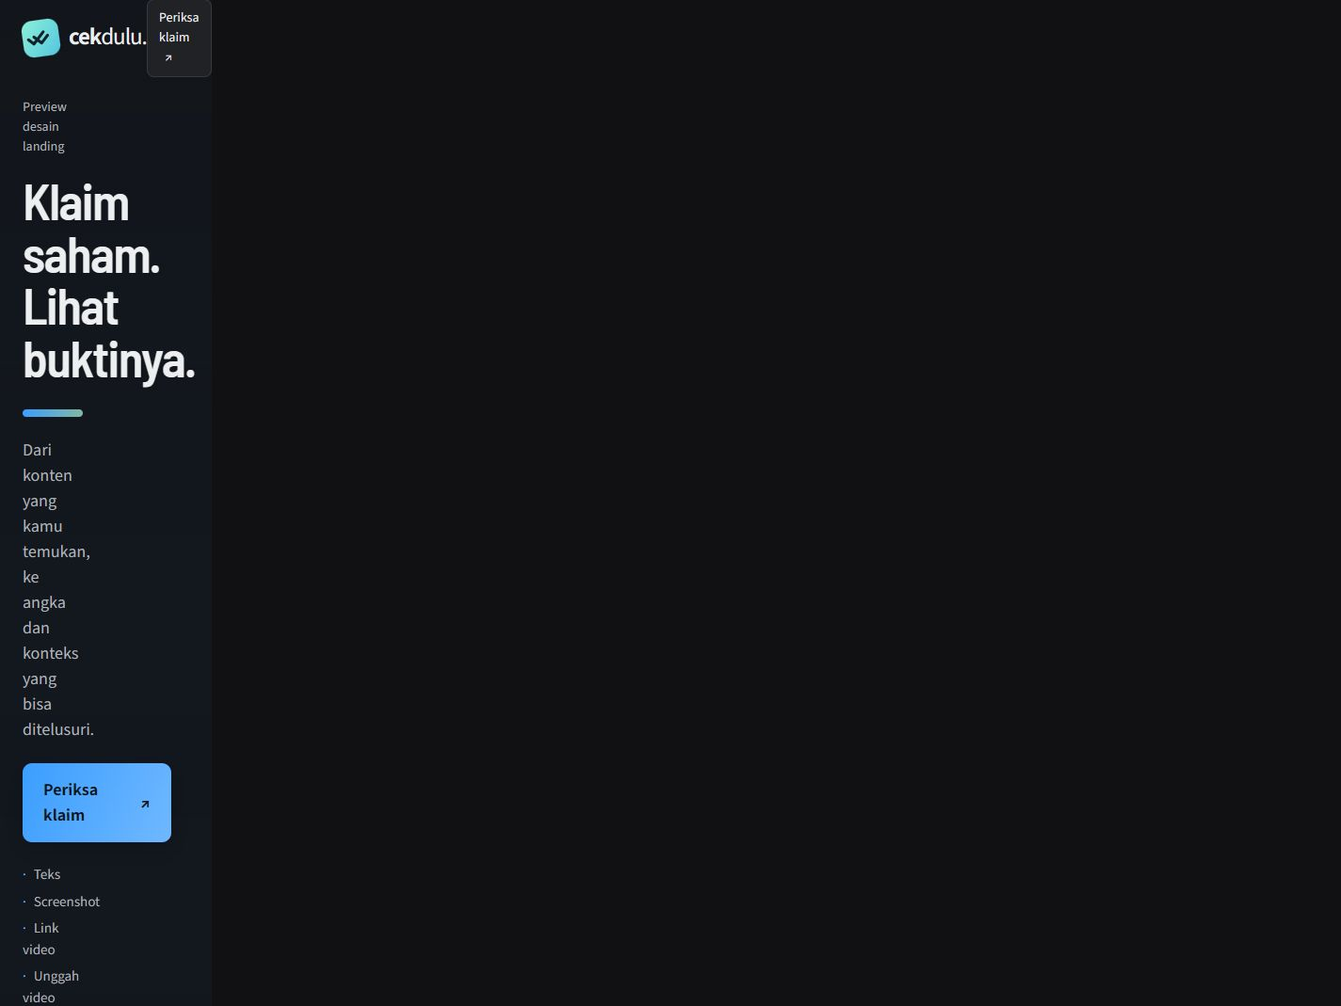
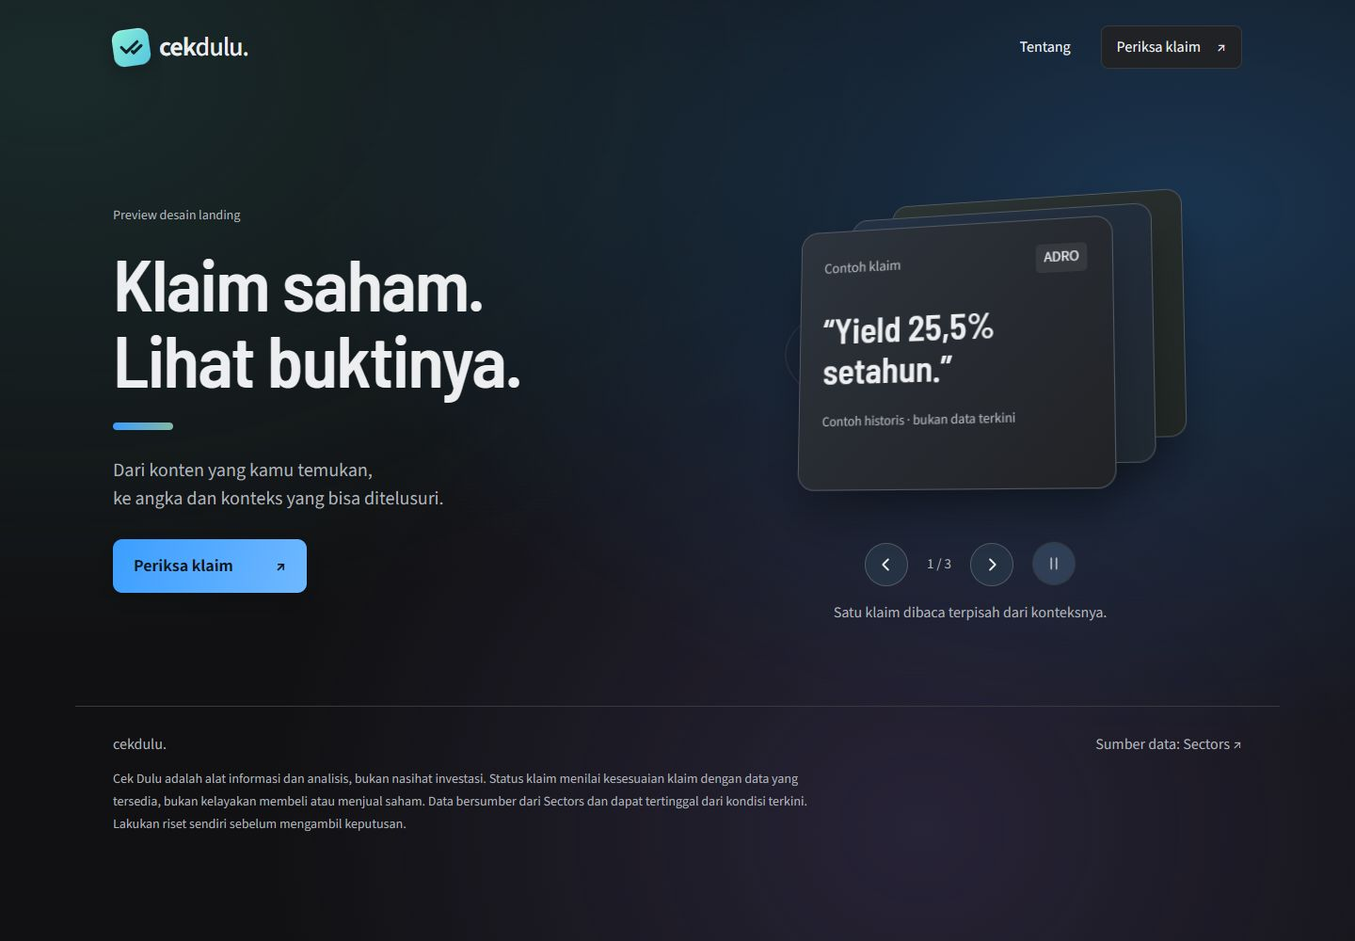
feat: refine the landing preview with automatic motion and arrow navigation

diff --git a/docs/design-mockups/landing.css b/docs/design-mockups/landing.css
@@ -1,5 +1,6 @@
 @font-face{font-family:Source;src:url('fonts/source-sans-3.ttf')}@font-face{font-family:Barlow;src:url('fonts/barlow-semi-condensed-600.ttf');font-weight:600}
-*{box-sizing:border-box}body{margin:0;background:#111113;color:#edeef0;font:18px/1.5 Source,sans-serif;background-image:radial-gradient(ellipse at 80% 25%,#19304b70,transparent 50%)}a{color:inherit;text-decoration:none}button{font:inherit;cursor:pointer}a:focus-visible,button:focus-visible{outline:3px solid #70b8ff;outline-offset:5px}.skip{position:absolute;top:-100px}.skip:focus{top:8px;z-index:9;background:#212225;padding:12px}header,main,footer{max-width:1280px;margin:auto;padding-inline:40px}header{height:100px;display:flex;align-items:center;justify-content:space-between}.brand{display:flex;align-items:center;font-size:28px;font-weight:650;letter-spacing:-1px}.brand>span:last-child{font-weight:400}.mark{display:grid;place-items:center;width:39px;height:39px;margin-right:10px;border-radius:11px;transform:rotate(-8deg);color:#10232a;background:linear-gradient(130deg,#8cf0d9,#54c5df);font-size:22px;letter-spacing:-8px;padding-right:7px}nav{display:flex;align-items:center;gap:32px;font-size:16px}.nav-check{padding:10px 16px;border:1px solid #363a3f;border-radius:8px;background:#212225}.nav-check span{margin-left:14px}.hero{min-height:650px;display:grid;grid-template-columns:1fr 1fr;align-items:center;gap:44px;padding-block:55px 70px}.preview-label{color:#b0b4ba;font-size:14px;margin-bottom:20px}h1{font:600 clamp(52px,5.4vw,78px)/1.03 Barlow,sans-serif;letter-spacing:-1.5px;margin:0}h1:after{content:'';display:block;width:64px;height:8px;margin-top:28px;border-radius:8px;background:linear-gradient(90deg,#3b9eff,#82b8a5)}.subtitle{color:#b0b4ba;margin:28px 0;font-size:20px;line-height:1.5}.cta{display:inline-flex;gap:45px;align-items:center;padding:15px 22px;border-radius:10px;background:linear-gradient(115deg,#3b9eff,#70b8ff);color:#0d1520;font-weight:650;box-shadow:0 8px 30px #0003;transition:transform .2s}.cta:hover{transform:translateY(-3px)}.formats{display:flex;gap:8px 18px;flex-wrap:wrap;color:#b0b4ba;font-size:15px;margin-top:24px}.formats span:before{content:'·';margin-right:8px;color:#70b8ff}.experience{text-align:center;min-width:0}.scene{height:405px;position:relative;perspective:1400px;display:grid;place-items:center;touch-action:pan-y}.orbit{position:absolute;width:390px;height:390px;border-radius:50%;border:1px solid #363a3f;transform:rotateX(66deg) rotateZ(-25deg);box-shadow:0 0 0 55px #19304b12}.deck{position:relative;width:330px;height:270px;transform-style:preserve-3d;transform:rotateX(calc(8deg + var(--ry,0deg))) rotateY(calc(-15deg + var(--rx,0deg)));animation:float 7s ease-in-out infinite;transition:transform .25s}.sheet{position:absolute;inset:0;text-align:left;border:1px solid #535a64;border-radius:18px;background:linear-gradient(135deg,#2d343d,#212225);box-shadow:0 28px 40px #0004;padding:25px;backface-visibility:hidden;transition:transform .7s cubic-bezier(.2,.7,.2,1),opacity .5s;transform-style:preserve-3d}.front{transform:translate3d(0,20px,70px)}.middle{transform:translate3d(30px,-8px,0);background:linear-gradient(135deg,#253347,#202831)}.rear{transform:translate3d(55px,-38px,-65px);background:linear-gradient(135deg,#2c3534,#212725)}.sheet-label{font-size:15px;color:#b0b4ba}.sheet-heading{display:flex;justify-content:space-between;align-items:center}.ticker{font-size:15px;color:#edeef0;background:#363a3f;padding:3px 8px;border-radius:5px}.sheet blockquote{font:600 37px/1.15 Barlow;margin:28px 0 22px}.sheet-foot{font-size:14px;color:#b0b4ba;margin:0}.sheet strong{display:block;font:600 31px/1.2 Barlow;margin-top:30px}.sheet strong small{font:16px Source;color:#b0b4ba}.sheet>p:not(.sheet-foot){font-size:16px;color:#b0b4ba}.bars{display:grid;gap:8px;margin-top:20px}.bars i{height:11px;background:#89959f;width:100%;border-radius:4px}.bars i:last-child{width:22%;background:#698db2}.stamp{display:inline-block;border-radius:6px;background:#31413c;color:#b4d3c7;padding:5px 12px;font-size:14px}.verdict{background:#3a3024;color:#e5ba83;padding:6px 10px;border-radius:6px;font-size:15px;margin-bottom:14px}.scene[data-stage=data] .front{transform:translate3d(-85px,80px,-85px);opacity:.35}.scene[data-stage=data] .middle{transform:translate3d(0,20px,100px)}.scene[data-stage=context] .front{transform:translate3d(-85px,80px,-85px);opacity:.3}.scene[data-stage=context] .middle{transform:translate3d(60px,25px,-45px);opacity:.4}.scene[data-stage=context] .rear{transform:translate3d(0,20px,120px)}.steps{display:flex;gap:8px;justify-content:center;margin-top:8px}.steps button{background:#212225;border:1px solid #363a3f;border-radius:8px;padding:9px 22px;color:#b0b4ba;min-height:44px}.steps button[aria-pressed=true]{background:#19304b;color:#edeef0;border-color:#698db2}.step-caption{font-size:16px;color:#b0b4ba;min-height:24px;margin:16px 0 8px}.motion-toggle{color:#b0b4ba;background:none;border:0;padding:10px;font-size:14px;min-height:44px}.entry{display:flex;justify-content:space-between;align-items:center;gap:20px;border-block:1px solid #363a3f;padding:32px 0;margin-bottom:36px}.entry h2{font:600 26px Barlow;margin:0}.entry a{color:#70b8ff;font-size:18px}.entry a:hover{text-decoration:underline}footer{padding-bottom:36px}.footer-row{display:flex;justify-content:space-between;gap:20px;font-size:16px;color:#b0b4ba}footer p{font-size:14px;color:#b0b4ba;max-width:108ch;line-height:1.7}.paused .deck{animation:none}.paused .sheet{transition:none}@keyframes float{0%,100%{translate:0 0}50%{translate:0 -12px}}
-@media(max-width:900px){header,main,footer{padding-inline:24px}.hero{gap:12px}h1{font-size:56px}.deck{width:280px;height:260px}.sheet{padding:20px}.orbit{width:300px;height:300px}.scene{height:360px}.steps button{padding-inline:16px}}
-@media(max-width:650px){header{height:80px}.brand{font-size:25px}nav{gap:16px}nav>a:first-child{display:none}.nav-check{font-size:14px;padding:9px 12px}.nav-check span{margin-left:6px}.hero{display:flex;flex-direction:column;align-items:stretch;padding-top:24px;gap:28px}.preview-label{margin:0 0 18px}h1{font-size:54px}.subtitle{font-size:18px;margin:22px 0}.formats{gap:6px 14px}.scene{height:320px;overflow:hidden;margin-inline:-24px}.deck{width:265px;height:240px}.sheet{padding:20px}.sheet blockquote{font-size:33px}.sheet strong{font-size:27px;margin-top:24px}.orbit{width:300px;height:300px}.step-caption{font-size:15px}.entry{align-items:flex-start;flex-direction:column;padding-block:26px}.entry h2{font-size:24px}.footer-row{flex-wrap:wrap}}
+*{box-sizing:border-box}body{margin:0;background:#111113;color:#edeef0;font:18px/1.5 Source,sans-serif;background-image:radial-gradient(ellipse at 87% 22%,#23578b80,transparent 52%),radial-gradient(ellipse at 4% 8%,#254a4970,transparent 46%),radial-gradient(ellipse at 68% 88%,#443a6570,transparent 50%);background-attachment:fixed}a{color:inherit;text-decoration:none}button{font:inherit;cursor:pointer}a:focus-visible,button:focus-visible{outline:3px solid #70b8ff;outline-offset:5px}.skip{position:absolute;top:-100px}.skip:focus{top:8px;z-index:9;background:#212225;padding:12px}header,main,footer{max-width:1280px;margin:auto;padding-inline:40px}header{height:100px;display:flex;align-items:center;justify-content:space-between}.brand{display:flex;align-items:center;font-size:28px;font-weight:650;letter-spacing:-1px}.brand>span:last-child{font-weight:500}.mark svg{transform:rotate(8deg)}.mark{display:grid;place-items:center;width:39px;height:39px;margin-right:10px;border-radius:11px;transform:rotate(-8deg);color:#10232a;background:linear-gradient(130deg,#8cf0d9,#54c5df);box-shadow:inset 0 1px 0 #ffffff60,0 6px 20px #0003}nav{display:flex;align-items:center;gap:32px;font-size:16px}.nav-check{padding:10px 16px;border:1px solid #363a3f;border-radius:8px;background:#212225}.nav-check span{margin-left:14px}.hero{min-height:650px;display:grid;grid-template-columns:1fr 1fr;align-items:center;gap:44px;padding-block:55px 70px}.preview-label{color:#b0b4ba;font-size:14px;margin-bottom:20px}h1{font:600 clamp(52px,5.4vw,78px)/1.03 Barlow,sans-serif;letter-spacing:-1.5px;margin:0}h1:after{content:'';display:block;width:64px;height:8px;margin-top:28px;border-radius:8px;background:linear-gradient(90deg,#3b9eff,#82b8a5)}.subtitle{color:#b0b4ba;margin:28px 0;font-size:20px;line-height:1.5}.cta{display:inline-flex;gap:45px;align-items:center;padding:15px 22px;border-radius:10px;background:linear-gradient(115deg,#3b9eff,#70b8ff);color:#0d1520;font-weight:650;box-shadow:0 8px 30px #0003;transition:transform .2s}.cta:hover{transform:translateY(-3px)}.experience{text-align:center;min-width:0}.scene{height:405px;position:relative;perspective:1400px;display:grid;place-items:center;touch-action:pan-y}.orbit{position:absolute;width:390px;height:390px;border-radius:50%;border:1px solid #363a3f;transform:rotateX(66deg) rotateZ(-25deg);box-shadow:0 0 0 55px #19304b12}.deck{position:relative;width:330px;height:270px;transform-style:preserve-3d;transform:rotateX(calc(8deg + var(--ry,0deg))) rotateY(calc(-15deg + var(--rx,0deg)));animation:float 7s ease-in-out infinite;transition:transform .25s}.sheet{position:absolute;inset:0;text-align:left;border:1px solid #535a64;border-radius:18px;background:linear-gradient(135deg,#2d343d,#212225);box-shadow:0 28px 40px #0004;padding:25px;backface-visibility:hidden;transition:transform .7s cubic-bezier(.2,.7,.2,1),opacity .5s;transform-style:preserve-3d}.front{transform:translate3d(0,20px,70px)}.middle{transform:translate3d(30px,-8px,0);background:linear-gradient(135deg,#253347,#202831)}.rear{transform:translate3d(55px,-38px,-65px);background:linear-gradient(135deg,#2c3534,#212725)}.scene[data-stage=claim] .middle>*,.scene[data-stage=claim] .rear>*,.scene[data-stage=data] .front>*,.scene[data-stage=data] .rear>*,.scene[data-stage=context] .front>*,.scene[data-stage=context] .middle>*{visibility:hidden}.sheet-label{font-size:15px;color:#b0b4ba}.sheet-heading{display:flex;justify-content:space-between;align-items:center}.ticker{font-size:15px;color:#edeef0;background:#363a3f;padding:3px 8px;border-radius:5px}.sheet blockquote{font:600 37px/1.15 Barlow;margin:28px 0 22px}.sheet-foot{font-size:14px;color:#b0b4ba;margin:0}.sheet strong{display:block;font:600 31px/1.2 Barlow;margin-top:30px}.sheet strong small{font:16px Source;color:#b0b4ba}.sheet>p:not(.sheet-foot){font-size:16px;color:#b0b4ba}.bars{display:grid;gap:8px;margin-top:20px}.bars i{height:11px;background:#89959f;width:100%;border-radius:4px}.bars i:last-child{width:22%;background:#698db2}.stamp{display:inline-block;border-radius:6px;background:#31413c;color:#b4d3c7;padding:5px 12px;font-size:14px}.verdict{background:#3a3024;color:#e5ba83;padding:6px 10px;border-radius:6px;font-size:15px;margin-bottom:14px}.scene[data-stage=data] .front{transform:translate3d(-85px,80px,-85px);opacity:.35}.scene[data-stage=data] .middle{transform:translate3d(0,20px,100px)}.scene[data-stage=context] .front{transform:translate3d(-85px,80px,-85px);opacity:.3}.scene[data-stage=context] .middle{transform:translate3d(60px,25px,-45px);opacity:.4}.scene[data-stage=context] .rear{transform:translate3d(0,20px,120px)}.carousel-controls{display:flex;gap:12px;align-items:center;justify-content:center;margin-top:8px}.carousel-controls button{display:grid;place-items:center;width:46px;height:46px;color:#edeef0;background:#253243;border:1px solid #535a64;border-radius:50%;transition:background .2s,transform .2s}.carousel-controls button:hover{background:#34465e;transform:translateY(-2px)}.carousel-controls svg{width:22px;height:22px;fill:none;stroke:currentColor;stroke-width:2;stroke-linecap:round;stroke-linejoin:round}.slide-position{font-size:15px;color:#b0b4ba;min-width:42px}.carousel-controls .motion-toggle{margin-left:8px;background:none;color:#b0b4ba;border-color:#363a3f}.step-caption{font-size:16px;color:#b0b4ba;min-height:24px;margin:16px 0 8px}footer{padding-block:28px 36px;border-top:1px solid #363a3f}.footer-row{display:flex;justify-content:space-between;gap:20px;font-size:16px;color:#b0b4ba}footer p{font-size:14px;color:#b0b4ba;max-width:108ch;line-height:1.7}.paused .deck{animation:none}.paused .sheet{transition:none}@keyframes float{0%,100%{translate:0 0}50%{translate:0 -12px}}
+@media(max-width:900px){header,main,footer{padding-inline:24px}.hero{gap:12px}h1{font-size:56px}.deck{width:280px;height:260px}.sheet{padding:20px}.orbit{width:300px;height:300px}.scene{height:360px}}
+@media(max-width:650px){header{height:80px}.brand{font-size:25px}nav{gap:16px}nav>a:first-child{display:none}.nav-check{font-size:14px;padding:9px 12px}.nav-check span{margin-left:6px}.hero{display:flex;flex-direction:column;align-items:stretch;padding-top:24px;gap:28px}.preview-label{margin:0 0 18px}h1{font-size:54px}.subtitle{font-size:18px;margin:22px 0}.scene{height:320px;overflow:hidden;margin-inline:-24px}.deck{width:265px;height:240px}.sheet{padding:20px}.sheet blockquote{font-size:33px}.sheet strong{font-size:27px;margin-top:24px}.orbit{width:300px;height:300px}.step-caption{font-size:15px}.footer-row{flex-wrap:wrap}}
 @media(prefers-reduced-motion:reduce){*,*:before,*:after{animation:none!important;transition:none!important;scroll-behavior:auto!important}.deck{transform:none}.cta:hover{transform:none}}
+.motion-toggle .play-icon{display:none}.motion-toggle[aria-pressed=true] .pause-icon{display:none}.motion-toggle[aria-pressed=true] .play-icon{display:block}

diff --git a/docs/design-mockups/landing.html b/docs/design-mockups/landing.html
@@ -3,10 +3,10 @@
 <head><meta charset="utf-8"><meta name="viewport" content="width=device-width,initial-scale=1"><title>Preview landing · Cek Dulu</title><link rel="stylesheet" href="landing.css"><script src="landing.js" defer></script></head>
 <body>
 <a class="skip" href="#main">Lewati ke konten</a>
-<header><a class="brand" href="landing.html" aria-label="Cek Dulu beranda"><span class="mark" aria-hidden="true"><svg width="25" height="25" viewBox="0 0 24 24" fill="none" stroke="currentColor" stroke-width="3" stroke-linecap="round" stroke-linejoin="round"><path d="m18 6-7 7-3-3M22 10l-7 7-3-3M2 12l5 5 3-3"/></svg></span>cek<span>dulu.</span></a><nav aria-label="Navigasi"><a href="http://localhost:3001/about">Tentang</a><a class="nav-check" href="http://localhost:3001/">Periksa klaim <span aria-hidden="true">↗</span></a></nav></header>
+<header><a class="brand" href="landing.html" aria-label="Cek Dulu beranda"><span class="mark" aria-hidden="true"><svg width="25" height="25" viewBox="0 0 24 24" fill="none" stroke="currentColor" stroke-width="3" stroke-linecap="round" stroke-linejoin="round"><path d="M18 6 7 17l-5-5"/><path d="m22 10-7.5 7.5L13 16"/></svg></span>cek<span>dulu.</span></a><nav aria-label="Navigasi"><a href="http://localhost:3001/about">Tentang</a><a class="nav-check" href="http://localhost:3001/">Periksa klaim <span aria-hidden="true">↗</span></a></nav></header>
 <main id="main">
 <section class="hero" aria-labelledby="title">
-<div class="intro"><p class="preview-label">Preview desain landing</p><h1 id="title">Klaim saham.<br>Lihat buktinya.</h1><p class="subtitle">Dari konten yang kamu temukan,<br>ke angka dan konteks yang bisa ditelusuri.</p><a class="cta" href="http://localhost:3001/">Periksa klaim <span aria-hidden="true">↗</span></a><div class="formats" aria-label="Jenis input"><span>Teks</span><span>Screenshot</span><span>Link video</span><span>Unggah video</span></div></div>
+<div class="intro"><p class="preview-label">Preview desain landing</p><h1 id="title">Klaim saham.<br>Lihat buktinya.</h1><p class="subtitle">Dari konten yang kamu temukan,<br>ke angka dan konteks yang bisa ditelusuri.</p><a class="cta" href="http://localhost:3001/">Periksa klaim <span aria-hidden="true">↗</span></a></div>
 <div class="experience">
 <div class="scene" aria-label="Contoh interaktif pemeriksaan ADRO" data-stage="claim">
 <div class="orbit" aria-hidden="true"></div>
@@ -16,12 +16,12 @@
 <article class="sheet front"><div class="sheet-heading"><span class="sheet-label">Contoh klaim</span><span class="ticker">ADRO</span></div><blockquote>“Yield 25,5%<br>setahun.”</blockquote><div class="verdict" hidden>Benar tapi menyesatkan</div><p class="sheet-foot">Contoh historis · bukan data terkini</p></article>
 </div>
 </div>
-<div class="steps" role="group" aria-label="Jelajahi contoh"><button aria-pressed="true" data-step="claim">Klaim</button><button aria-pressed="false" data-step="data">Data</button><button aria-pressed="false" data-step="context">Konteks</button></div>
-<p class="step-caption" aria-live="polite">Pilih Data untuk melihat angka pembanding.</p>
-<button class="motion-toggle" aria-pressed="false">Hentikan gerak</button>
+<div class="carousel-controls" role="group" aria-label="Jelajahi contoh"><button class="arrow" data-direction="-1" aria-label="Lembar sebelumnya"><svg viewBox="0 0 24 24" aria-hidden="true"><path d="m14 6-6 6 6 6"/></svg></button><span class="slide-position" aria-label="Lembar 1 dari 3">1 / 3</span><button class="arrow" data-direction="1" aria-label="Lembar berikutnya"><svg viewBox="0 0 24 24" aria-hidden="true"><path d="m10 6 6 6-6 6"/></svg></button><button class="motion-toggle" aria-label="Hentikan gerak otomatis" aria-pressed="false"><svg class="pause-icon" viewBox="0 0 24 24" aria-hidden="true"><path d="M9 6v12M15 6v12"/></svg><svg class="play-icon" viewBox="0 0 24 24" aria-hidden="true"><path d="m9 5 10 7-10 7Z"/></svg></button></div>
+<p class="step-caption">Satu klaim dibaca terpisah dari konteksnya.</p>
+
 </div>
 </section>
-<section class="entry" aria-labelledby="entry-title"><h2 id="entry-title">Punya klaim untuk diperiksa?</h2><a href="http://localhost:3001/">Buka pemeriksaan <span aria-hidden="true">↗</span></a></section>
+
 </main>
 <footer><div class="footer-row"><span>cekdulu.</span><a href="https://docs.sectors.app" target="_blank" rel="noreferrer">Sumber data: Sectors ↗</a></div><p>Cek Dulu adalah alat informasi dan analisis, bukan nasihat investasi. Status klaim menilai kesesuaian klaim dengan data yang tersedia, bukan kelayakan membeli atau menjual saham. Data bersumber dari Sectors dan dapat tertinggal dari kondisi terkini. Lakukan riset sendiri sebelum mengambil keputusan.</p></footer>
 </body></html>

diff --git a/docs/design-mockups/landing.js b/docs/design-mockups/landing.js
@@ -1,30 +1,56 @@
 const scene = document.querySelector('.scene');
+const experience = document.querySelector('.experience');
 const caption = document.querySelector('.step-caption');
+const position = document.querySelector('.slide-position');
 const toggle = document.querySelector('.motion-toggle');
 const reduced = window.matchMedia('(prefers-reduced-motion: reduce)');
 const coarse = window.matchMedia('(pointer: coarse)');
+const stages = ['claim', 'data', 'context'];
+const captions = [
+  'Satu klaim dibaca terpisah dari konteksnya.',
+  'Rata-rata historis dan yield TTM memakai periode berbeda.',
+  'Pembayaran khusus dapat mengubah makna angka rata-rata.'
+];
+let index = 0;
 let paused = reduced.matches;
-function setPaused(value) {
-  paused = value;
-  document.body.classList.toggle('paused', paused);
+let hovering = false;
+let focused = false;
+let timer;
+let visible = true;
+function showSlide(nextIndex) {
+  index = (nextIndex + stages.length) % stages.length;
+  scene.dataset.stage = stages[index];
+  caption.textContent = captions[index];
+  position.textContent = `${index + 1} / ${stages.length}`;
+  position.setAttribute('aria-label', `Lembar ${index + 1} dari ${stages.length}`);
+  ['.front', '.middle', '.rear'].forEach((selector, i) => {
+    scene.querySelector(selector).setAttribute('aria-hidden', String(i !== index));
+  });
+}
+function syncMotion() {
+  clearInterval(timer);
+  const stopped = paused || reduced.matches || document.hidden || !visible;
+  document.body.classList.toggle('paused', stopped);
   toggle.setAttribute('aria-pressed', String(paused));
-  toggle.textContent = paused ? 'Aktifkan gerak' : 'Hentikan gerak';
+  const label = paused ? 'Aktifkan gerak otomatis' : 'Hentikan gerak otomatis';
+  // Static SVG children preserve the click target when hover/focus state changes.
+  toggle.setAttribute('aria-label', label);
+  if (!stopped && !hovering && !focused) timer = setInterval(() => showSlide(index + 1), 5000);
   scene.style.removeProperty('--rx'); scene.style.removeProperty('--ry');
 }
-setPaused(paused);
-toggle.addEventListener('click', () => setPaused(!paused));
-reduced.addEventListener('change', () => setPaused(reduced.matches));
-document.querySelectorAll('[data-step]').forEach(button => {
-  button.addEventListener('click', () => {
-    scene.dataset.stage = button.dataset.step;
-    document.querySelectorAll('[data-step]').forEach(item => item.setAttribute('aria-pressed', String(item === button)));
-    caption.textContent = {
-      claim: 'Pilih Data untuk melihat angka pembanding.',
-      data: 'Rata-rata historis dan yield TTM memakai periode berbeda.',
-      context: 'Pembayaran khusus dapat mengubah makna angka rata-rata.'
-    }[button.dataset.step];
-  });
+document.querySelectorAll('[data-direction]').forEach(button => {
+  button.addEventListener('click', () => { showSlide(index + Number(button.dataset.direction)); syncMotion(); });
 });
+toggle.addEventListener('click', () => { paused = !paused; syncMotion(); });
+reduced.addEventListener('change', () => { paused = reduced.matches; syncMotion(); });
+document.addEventListener('visibilitychange', syncMotion);
+experience.addEventListener('pointerenter', () => { hovering = true; syncMotion(); });
+experience.addEventListener('pointerleave', () => { hovering = false; syncMotion(); });
+experience.addEventListener('focusin', () => { focused = true; syncMotion(); });
+experience.addEventListener('focusout', event => {
+  focused = experience.contains(event.relatedTarget); syncMotion();
+});
+new IntersectionObserver(entries => { visible = entries[0].isIntersecting; syncMotion(); }).observe(scene);
 scene.addEventListener('pointermove', event => {
   if (paused || reduced.matches || coarse.matches) return;
   const bounds = scene.getBoundingClientRect();
@@ -32,3 +58,5 @@ scene.addEventListener('pointermove', event => {
   scene.style.setProperty('--ry', `${-((event.clientY - bounds.top) / bounds.height - .5) * 8}deg`);
 });
 scene.addEventListener('pointerleave', () => { scene.style.removeProperty('--rx'); scene.style.removeProperty('--ry'); });
+showSlide(0);
+syncMotion();

diff --git a/docs/design-landing-proposal.md b/docs/design-landing-proposal.md
@@ -4,11 +4,11 @@ Status: preview interaktif untuk persetujuan; belum mengganti halaman utama.
 
 ## Arah yang disarankan
 
-Palet slate–blue yang sudah disetujui, logo lama dipertahankan, kartu solid dengan border netral. Hero berisi judul “Klaim saham. Lihat buktinya.”, satu kalimat penjelasan, tombol Periksa klaim, dan jenis input yang tersedia. Tidak menambahkan statistik, testimoni, atau klaim keberhasilan rekaan.
+Palet slate–blue yang sudah disetujui, dengan latar berlapis biru, teal dan ungu. Logo centang ganda diperbaiki agar sesuai ikon aplikasi. Kartu solid dengan border netral. Hero berisi judul “Klaim saham. Lihat buktinya.”, satu kalimat penjelasan dan tombol Periksa klaim. Daftar format input di bawah CTA dihapus atas permintaan pengguna. Tidak menambahkan statistik, testimoni, atau klaim keberhasilan rekaan.
 
-Visual utama berupa tiga lembar bukti dalam ruang 3D: Klaim, Data, Konteks. Pointer memberi kemiringan ringan, lembar bergerak perlahan, tombol tahap membawa lembar terkait ke depan. Contoh ADRO historis ditandai sebagai contoh, bukan hasil pemeriksaan baru. Angka 25,5% dan TTM 5,56% dari AGENTS.md bagian 6, dengan penjelasan bahwa periodenya berbeda; grafik contoh ini bukan kalkulasi verdict.
+Visual utama berupa tiga lembar bukti dalam ruang 3D: Klaim, Data, Konteks. Pointer memberi kemiringan ringan. Lembar berganti otomatis setiap lima detik; navigasi manual memakai panah sebelumnya/berikutnya dan indikator posisi. Tidak memakai tiga tombol tahap berteks. Contoh ADRO historis ditandai sebagai contoh, bukan hasil pemeriksaan baru. Angka 25,5% dan TTM 5,56% dari AGENTS.md bagian 6, dengan penjelasan bahwa periodenya berbeda; grafik contoh ini bukan kalkulasi verdict.
 
-Bagian akhir menyediakan shortcut kedua ke pemeriksaan, atribusi sumber dan disclaimer lengkap. Tidak membuat grid fitur atau paragraf pemasaran panjang.
+CTA bagian akhir “Punya klaim untuk diperiksa?”/“Buka pemeriksaan” dihapus karena tujuannya sama dengan CTA hero. Navigasi atas tetap menyediakan shortcut pemeriksaan. Footer hanya memuat atribusi sumber dan disclaimer lengkap. Tidak membuat grid fitur atau paragraf pemasaran panjang.
 
 ## Routing saat diterapkan
 
@@ -22,7 +22,7 @@ Preview HTML sengaja memakai shortcut localhost:3001 yang masih menuju checker s
 
 ## Gerak, aksesibilitas, performa
 
-CSS perspective dan transform untuk prototipe ini; tidak memakai model WebGL atau embed pihak ketiga. Gerak bisa dihentikan, preferensi reduced-motion dihormati, kontrol bisa dipakai lewat keyboard, pointer tilt dinonaktifkan pada perangkat touch. Di mobile visual disusun di bawah CTA. Versi produk perlu menghentikan gerak saat hero tidak terlihat atau tab tidak aktif.
+CSS perspective dan transform untuk prototipe ini; tidak memakai model WebGL atau embed pihak ketiga. Gerak aktif sejak awal kecuali pengguna mengaktifkan reduced-motion. Gerak bisa dihentikan lewat tombol jeda, kontrol panah punya label aksesibel, pointer tilt dinonaktifkan pada perangkat touch. Pergantian otomatis berhenti saat area visual di-hover atau mendapat fokus keyboard; semua gerak berhenti ketika scene keluar layar atau tab tidak aktif. Di mobile visual disusun di bawah CTA. Teks lembar di belakang disembunyikan secara visual dan dari pembaca layar agar tidak bertumpuk.
 
 Jika CSS 3D ini disetujui tetapi hasil visual memerlukan geometri lebih nyata, evaluasi satu scene lokal ringan sebagai peningkatan terpisah; jangan mengunduh model besar sebagai background default. Tidak memakai glassmorphism.
 
